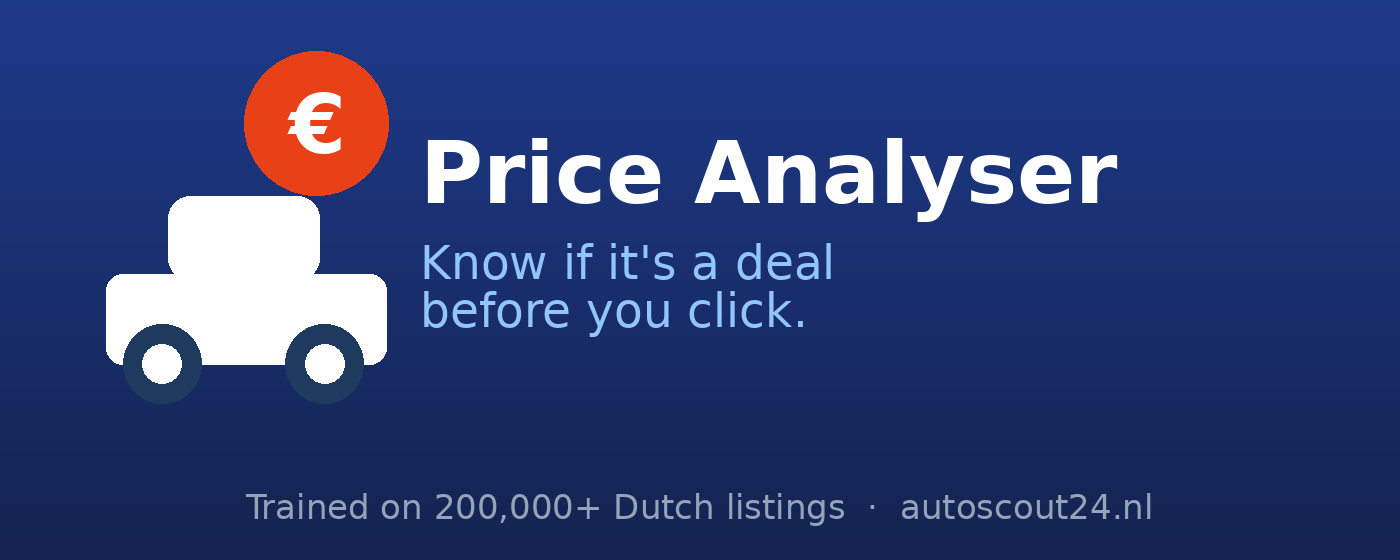
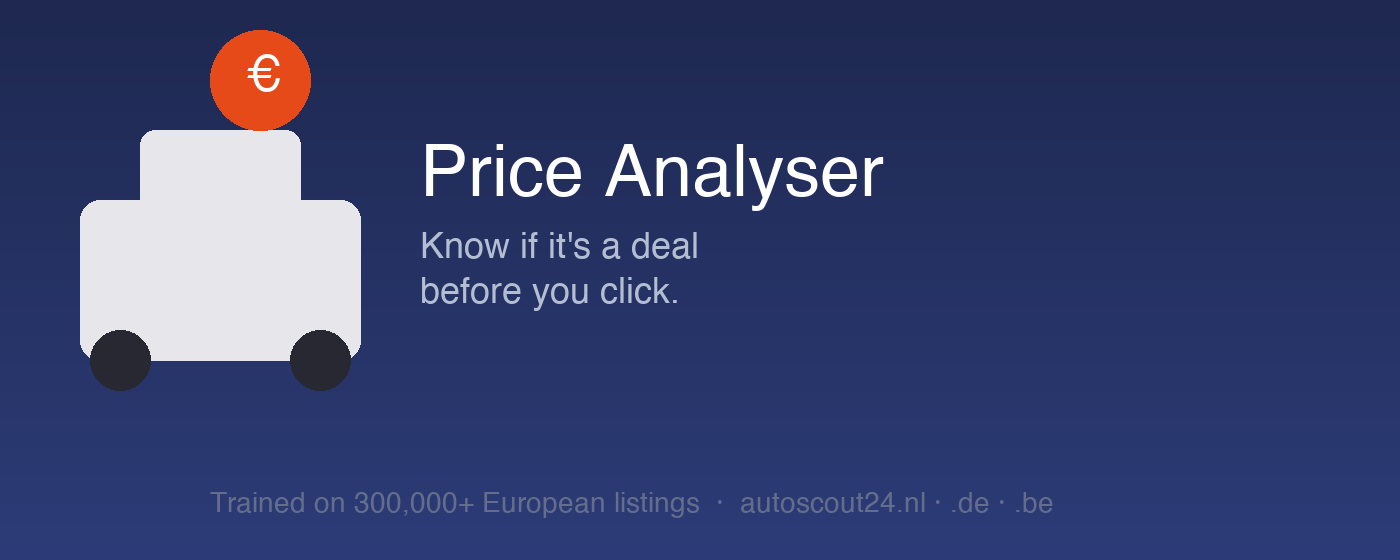
Parallelize weekly scrape per country + add request timeout
Matrix job runs NL/DE/BE on separate runners (each gets its own 6h
budget); a final train-deploy job merges the DB shards via sqlite
ATTACH, retrains, and uploads to Railway. Also adds a 10s/30s
connect/read timeout + 1 retry to scraper requests so a hung host
can't burn the whole budget.

diff --git a/scraper.py b/scraper.py
@@ -1,11 +1,25 @@
 import json
 import re
+import time
 
 from bs4 import BeautifulSoup
 import requests
 
 from config import PARAMS, HEADERS
 from countries import get_country_config
+
+
+def _get_with_retry(url: str, params: dict, attempts: int = 2, timeout=(10, 30)):
+    """GET with connect/read timeout + one retry. Returns Response or None on persistent failure."""
+    for attempt in range(attempts):
+        try:
+            return requests.get(url, headers=HEADERS, params=params, timeout=timeout)
+        except requests.RequestException as e:
+            if attempt + 1 < attempts:
+                time.sleep(2)
+                continue
+            print(f"  request failed after {attempts} attempts: {url} – {e}")
+            return None
 
 # ── Normalize fuel/transmission across languages ─────────────────────────────
 FUEL_MAP = {
@@ -57,7 +71,9 @@ def scrape_page(make: str, page: int, country: str = "NL",
         params["fregfrom"] = year_from
     if year_to:
         params["fregto"] = year_to
-    r = requests.get(url, headers=HEADERS, params=params)
+    r = _get_with_retry(url, params)
+    if r is None:
+        return []
     soup = BeautifulSoup(r.text, "html.parser")
 
     # AutoScout24 puts listing data in a __NEXT_DATA__ JSON blob

diff --git a/PLAN.md b/PLAN.md
@@ -1,109 +1,84 @@
 # AutoScout24 Price Analyser — Plan
 
 **Status:** 52 installs, 6 active users, 2 reviews (5★)
-**Goal:** Reach 50-500 active users. Fix retention bugs, try new growth channels.
+**Model:** XGBoost, MAE €2,100, 670k listings (NL + DE + BE)
+**API:** Railway (`/data/` volume for pipeline.joblib, cars.db, range_lookup.json)
 
 ---
 
-## Week 1 — Fix retention bugs
+## ✅ Done recently
 
-These directly affect the 6 current users' experience. Must-fix before more promotion.
-
-### 1. Similar cars show sold / damaged cars
-**Problem:**
-- Even with 30-day DB purge, top 3 "best deals" often sold out (cars sell fast)
-- Damaged cars get high predicted price (damage not visible on search page) so they look like "great deals"
-
-**Fix:**
-- For top 3 similar cars, only show listings scraped in last **7 days** (not 30)
-- Add a `damaged_listing=exclude` filter to scraper URLs (AutoScout24 supports this — we're already using it for new scrapes, check older data)
-- Consider: skip cars with extreme negative diff_pct (e.g. <-50%) — almost always damaged or mispriced
-
-### 2. Badges don't load on first load
-**Problem:** Content script races with page load, misses `__NEXT_DATA__` sometimes
-
-**Fix:**
-- Add retry logic with MutationObserver — if no listings found, watch DOM and retry
-- Or increase initial delay / listen for `DOMContentLoaded` + 500ms
-
-### 3. Data freshness
-**Problem:** Scrape is manual, DB goes stale, similar cars become irrelevant
-
-**Fix:**
-- Set up a weekly automated scrape (cron on laptop, or GitHub Action)
-- Include all current countries (NL, DE, BE) + retry BE which failed last time
-- Consider: daily partial scrape (just new listings per make) instead of full weekly
+- Model-residual-based price ranges (per trim/make+model)
+- Live-check for similar cars (top 30 → filter sold → show up to 3 active)
+- Damaged listing filter in scraper (`damaged_listing=exclude`)
+- Badges retry on first page load (race conditions fixed)
+- pushState SPA nav detection (homepage → search)
+- Fixed duplicate `_lastUrl` that silently broke the whole content script
+- GitHub Action: weekly scrape + retrain + auto-upload to Railway
+- Scraper: request timeout (10s/30s) + 1 retry — prevents hung requests from eating the GH Actions budget
+- GH Action: parallelized per-country (NL/DE/BE matrix) — each gets its own 6h budget, then a final merge+retrain+upload job
+- Multi-country support (NL, DE, BE + manifest entries for AT/FR/IT/ES/LU)
 
 ---
 
-## Week 2 — Growth experiments
+## 🔄 In progress
 
-Social media didn't work with 2 posts. Try different channels and more volume.
-
-### 1. Get reviews from existing 6 users
-**How:**
-- Can't contact Chrome Web Store users directly
-- Instead: add a small "Enjoying this? Leave a review" link in the sidebar footer after a user has seen predictions for 5+ cars
-- Reviews matter most for Chrome Web Store SEO
-
-### 2. Dutch/German Facebook groups
-- "Occasions Nederland", "Auto's te koop", "Tweedehands auto's"
-- "Gebrauchtwagen kaufen", "Auto kaufen Deutschland"
-- Post same text as the forum draft — no karma requirements
-
-### 3. Car YouTubers (DM approach)
-- Dutch: Uncle of Trash, AutoVisie, AutoRAI, Auto Review
-- German: Matthias Malmedie, JP Performance (too big probably)
-- Smaller 10-50k subs creators more likely to respond
-- DM: "Hey, I built a free Chrome extension that checks used car prices on AutoScout24.
-  Trained on 670k listings. Thought you might find it interesting for one of your videos.
-  Free to use, no affiliation."
-
-### 4. More TikTok/Insta volume
-- Post 1 video per week minimum
-- Different angles:
-  - "I found a car 40% below market value"
-  - "POV: negotiating with a seller using AI data"
-  - "This dealer is overpricing by €8,000"
-- First 2 seconds matter most — hook before "here's what I built"
+- GitHub Action running manually (first test run) — should finish in ~2h
 
 ---
 
-## Future — only if growth kicks in
+## 📋 Next up
 
-### If 100+ users
-- Build a proper "price trend" feature (needs months of data)
-- Premium: LLM insight becomes paid, free users get just badges
-- Full scrape for AT/FR/IT/ES/LU
-- Add automated tests (XGBoost, API, extension)
+### Growth (top priority — product is solid, need users)
 
-### If 500+ users
-- Upgrade Railway to handle load
-- Start considering monetization seriously
-- Consider other platforms (mobile.de, marktplaats, etc.)
+1. **Get reviews from existing 6 users** ✅ — "Leave a review" prompt after 5 analyses implemented
+2. ~~**Dutch/German Facebook groups**~~ — blocked (Facebook account disabled)
+3. **More TikTok/Insta volume** — post 1+ per week
+   - Different angles: "Found a car 40% below market value", "Negotiating with AI", "This dealer overpriced by €8k"
+4. **Car YouTubers DM** — in progress
+   - Dutch: Uncle of Trash, AutoVisie, AutoRAI, Auto Review
+   - German: Matthias Malmedie, smaller 10-50k subs more likely to respond
+5. **Direct outreach** — friends car shopping, ask them to try + review
+6. **Add usage analytics** — deferred until ~100 users (not needed at current scale)
 
-### Not doing (feature creep)
-- Sell to AutoScout — they have their own system, no interest likely
+### Optional polish (if bored waiting)
+
+- Full scrape for AT / FR / IT / ES / LU once NL/DE/BE stable
+- Small UI: "Last updated X days ago" in sidebar footer
+
+---
+
+## 🧠 Future (when user count > 100)
+
+- Premium tier — gate LLM insight + similar cars ranking
+- Price alerts (when AutoScout's own isn't enough)
+- Equipment/description parsing for richer predictions (needs per-listing scrape)
+- Other marketplaces — mobile.de, marktplaats, AutoTrader UK
+
+### Not doing (feature creep / low ROI)
+
+- Sell to AutoScout — they have their own price check
 - Price history per listing — not useful for buyers
+- Owner count impact — niche
 - Flyers — terrible ROI for Chrome extensions
-- Owner count impact — niche feature
+- Multi-site right now — need to nail AutoScout first
 
 ---
 
-## Known bugs / tech debt
+## 🐛 Known bugs / tech debt
 
-- [ ] Similar cars show sold/damaged cars
-- [ ] Badges don't load on first page load sometimes
-- [ ] BE scrape failed (DNS issues) — never retried fully
-- [ ] DB has no duplicate check — should verify
-- [ ] Chrome Web Store description says 300k listings (actually 670k)
+- [ ] Chrome Web Store description still says "300,000+ listings" (now 670k)
+- [ ] Verify next weekly Action run completes (per-country parallel; each ≤6h budget, train-deploy joins after)
+- [ ] DB has no duplicate check — minor, but should verify once
+- [ ] No automated tests
 
 ---
 
-## Metrics to track weekly
+## 📊 Metrics to track weekly
 
 - Chrome Web Store installs (total + weekly delta)
 - Active users (installs minus uninstalls)
 - Reviews count + average rating
-- TikTok/Insta views
-- Railway API calls per day (hints at engagement)
+- TikTok / Instagram views per video
+- Railway daily API calls (proxy for engagement)
+- GitHub Action: did it run + MAE from train_results.json